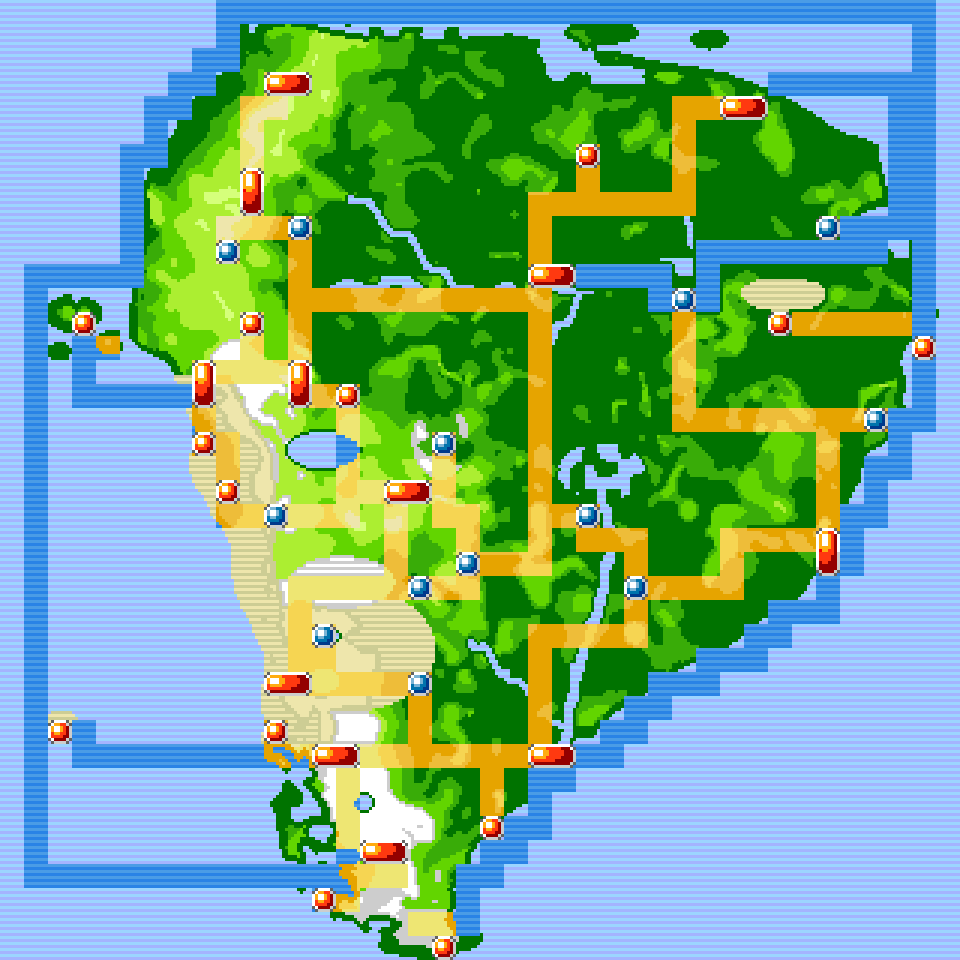
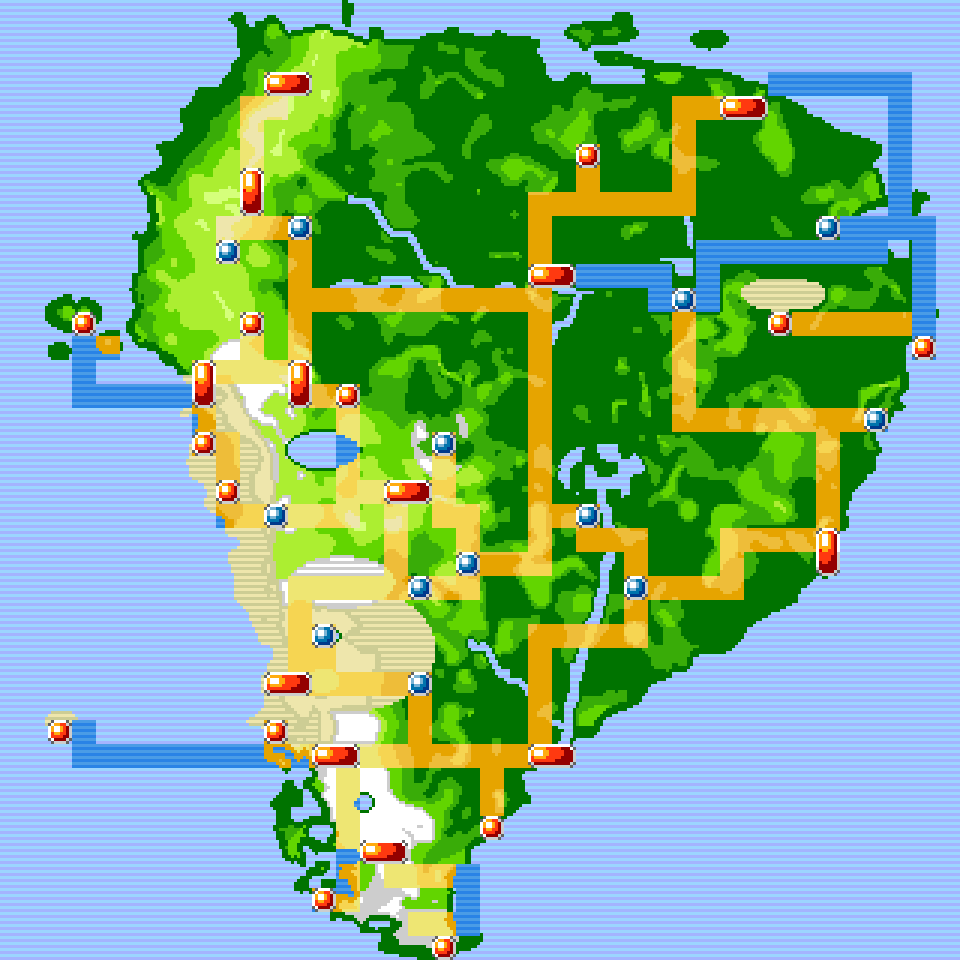
Regiokaart: tussenstand (agent bezig)

diff --git a/tools/concept/regiokaart.py b/tools/concept/regiokaart.py
@@ -53,7 +53,9 @@ def interp(pts, y):
 WEST = [(1, 11), (5, 7.5), (9, 6.5), (14, 6), (18, 8), (22, 9.5), (27, 10.5), (31, 11), (35, 12), (39, 14)]
 EAST = [(1, 19), (3, 30), (6, 36.5), (10, 38), (15, 37.8), (20, 36.6), (25, 32.6), (29, 26.5), (32, 22.8), (35.5, 19.6), (39, 18)]
 wc, ec = interp(WEST, cy), interp(EAST, cy)
-land = (cx > wc + (n - 0.5) * 2.4) & (cx < ec + (n - 0.5) * 2.8) & (cy > 1.2 + (n - 0.5) * 2) & (cy < 38.3)
+# kleine kustruis (±2-4 px): Hoenn-kusten hebben veel kleine bultjes en inhammen, geen gladde bochten
+cn = n + (value_noise(91, 6) - 0.5) * 0.35 + (value_noise(92, 3) - 0.5) * 0.12
+land = (cx > wc + (cn - 0.5) * 2.4) & (cx < ec + (cn - 0.5) * 2.8) & (cy > 1.2 + (cn - 0.5) * 2) & (cy < 38.3)
 land &= ~((cy < 3.5) & (cx > 20) & (cx < 27) & (n < 0.55))                      # Caribische baai
 land &= ~(ellipse(37.5, 9.6, 2.2, 1.1) & ~ellipse(36.3, 10.6, 0.9, 0.5))          # Amazonemonding, Marajó blijft
 land &= ~(ellipse(24.2, 31.4, 1.6, 0.7))                                         # Río de la Plata
@@ -132,8 +134,6 @@ for _ in range(2):
     q = np.pad(land, 1, mode='edge').astype(int)
     nb = sum(np.roll(np.roll(q, dy, 0), dx, 1) for dy in (-1, 0, 1) for dx in (-1, 0, 1))[1:-1, 1:-1]
     land = np.where(nb >= 6, True, np.where(nb <= 3, False, land))
-# fjorden: stroken land van 1-2 px breed weg (Hoenn-eilanden zijn minstens ±5 px breed)
-land = np.where(cy > 30, dilate(erode(land)) & land, land)
 land = drop_small(land, 24)
 land_lab, land_sizes = components(land)
 mainland = land & (land_lab == int(np.argmax(land_sizes)))
